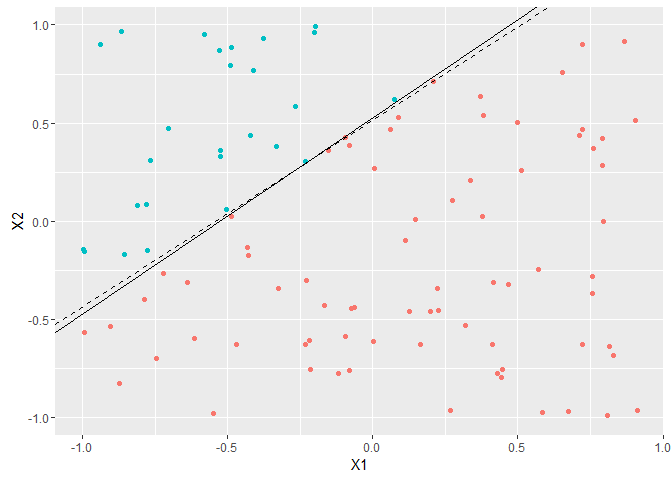
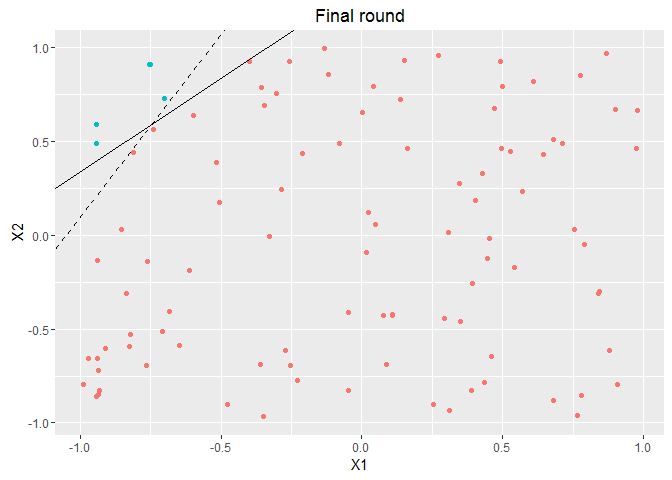
update

diff --git a/perceptron/perceptron.md b/perceptron/perceptron.md
@@ -6,7 +6,7 @@ This document demonstrates the application of the Perceptron Learning Algorithm 
 Preparing the data
 ------------------
 
-First, we generate 100 random points with coordinates x1, x2 and an intercept x0:
+First, we randomly generate 100 points with coordinates x1, x2 and an intercept x0 as our training data:
 
 ``` r
 X1 <- runif(100,min=-1,max=1)
@@ -36,7 +36,7 @@ library(ggplot2)
 
 ``` r
 ggplot(X.plot,aes(X.plot$X1,X.plot$X2))+
-    geom_point(aes(color=as.factor(Y)),show.legend = F)+
+    geom_point(aes(color=as.factor(Y)),show.legend = T)+
     geom_abline(intercept = intercept,slope=slope)+
     labs(x="X1",y="X2",color="")
 ```
@@ -46,7 +46,9 @@ ggplot(X.plot,aes(X.plot$X1,X.plot$X2))+
 PLA
 ---
 
-PLA classfies a point according to the sign of dot product of the x vector of that point (x0,x1 , x2) and the weight vector (w0, w1, w2). The goal of PLA is to find a optimal weight vector such that sign(sum(wixi)) would correctly predict yi for all point i in our data. To do so, the algorithm randomly picks a misclassified point in each round and updates the weight vector by adding ynxn. By doing so, PLA corrects the classification of the given point. These steps are repeated until all points are correctly classified.
+### Training
+
+PLA classfies a point according to the sign of dot product of the x vector of that point (x0,x1 , x2) and the weight vector (w0, w1, w2). The goal of PLA is to find a optimal weight vector such that sign(sum(wixi)) would correctly predict yi for all point i in our data. To do so, the algorithm randomly picks a misclassified point in each round and updates the weight vector by adding the product of the scalar yn and the vector xn to it. By doing so, PLA corrects the classification of the given point. These steps are repeated until all training points are correctly classified.
 
 ``` r
 ## Initialize
@@ -67,10 +69,10 @@ while (any(sign(Y_hat)!=sign(Y)))
 }
 ```
 
-The final weights are shown below by the dashed line :
+The final weights of the trained model are shown below by the dashed line which is close to the original separating line :
 
 ``` r
-drawplot <- function(n)
+drawplot <- function(n,name)
 {
   if (!n %in% seq(1,count+1))
   {
@@ -84,16 +86,16 @@ drawplot <- function(n)
     geom_point(aes(color=as.factor(Y)),show.legend = F)+
     geom_abline(intercept = intercept,slope=slope)+
     geom_abline(intercept = int_w,slope=slope_w,linetype="dashed")+
-    labs(x="X1",y="X2",color="")
+    labs(x="X1",y="X2",color="",title=name)
   }
 }
-pf <-drawplot(count+1)
+pf <- drawplot(count+1,"Final round")
 pf
 ```
 
 ![](perceptron_files/figure-markdown_github/unnamed-chunk-6-1.png)
 
-Resulting weights of the last four rounds :
+We can also see the resulting weights of the last four rounds :
 
 ``` r
 library(gridExtra)
@@ -102,10 +104,12 @@ library(gridExtra)
     ## Warning: package 'gridExtra' was built under R version 3.2.5
 
 ``` r
-p1 <- drawplot(count-2)
-p2 <- drawplot(count-1)
-p3 <- drawplot(count)
+p1 <- drawplot(count-2,sprintf("Round %i",count-3))
+p2 <- drawplot(count-1,sprintf("Round %i",count-2))
+p3 <- drawplot(count,sprintf("Round %i",count-1))
 grid.arrange(p1, p2,p3,pf,ncol=2)
 ```
 
 ![](perceptron_files/figure-markdown_github/unnamed-chunk-7-1.png)
+
+### Training
